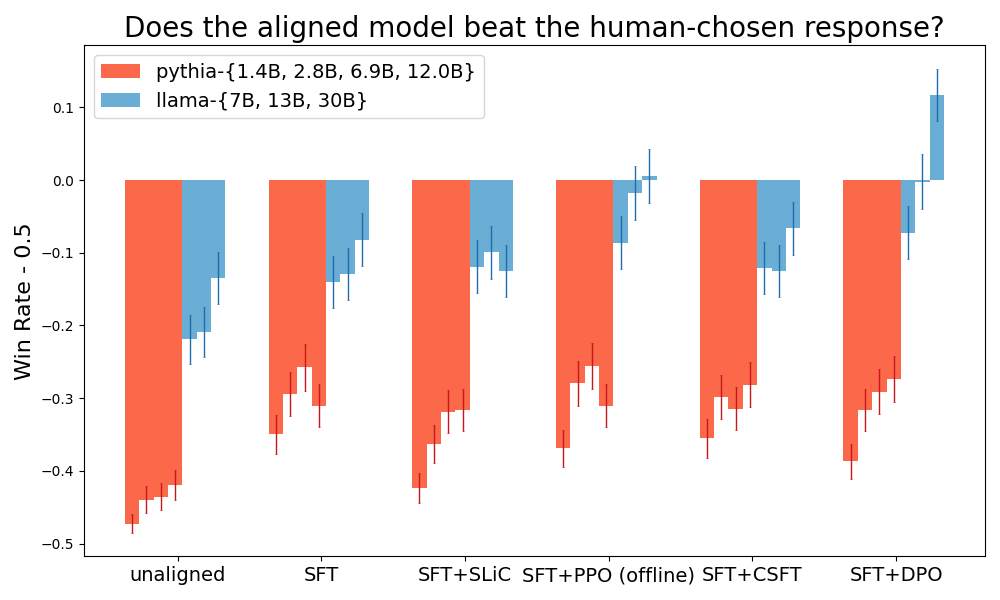
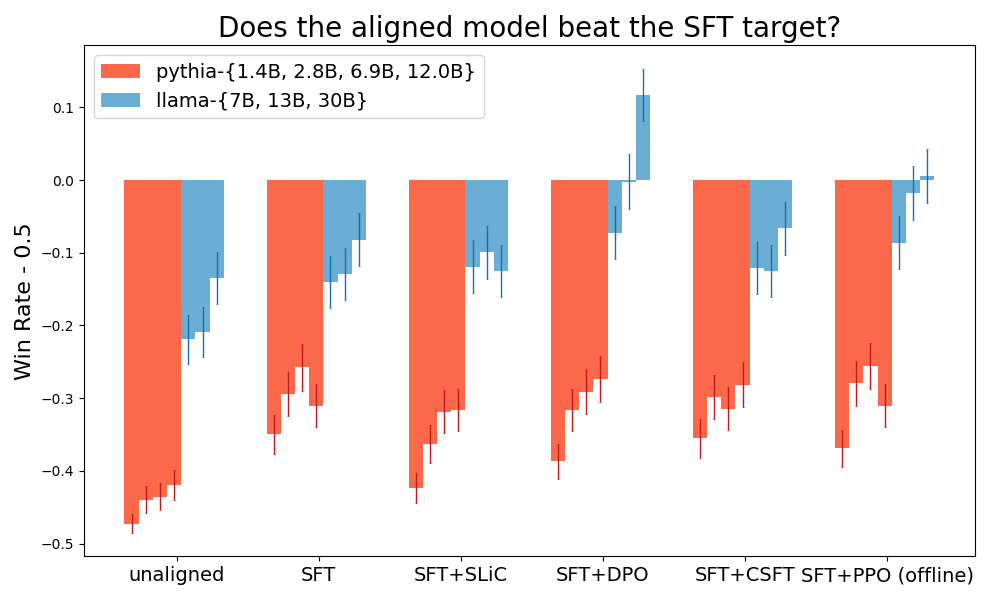
upate figure titles

diff --git a/visualize.py b/visualize.py
@@ -163,7 +163,7 @@ def plot_model_winrates(losses, fn, confidence=0.90):
 
     # Add labels and title
     plt.ylabel('Win Rate - 0.5', fontsize=16)
-    plt.title('Does the aligned model beat the human-chosen response?', fontsize=20)
+    plt.title('Does the aligned model beat the SFT target?', fontsize=20)
     plt.xticks([pos + bar_width / (len(MODELS) - 1) for pos in positions], [ LOSSES[l]['label'] for l in losses ], fontsize=14)
 
     ax.legend(handles=[Patch(facecolor=red_palette[3], label='pythia-{1.4B, 2.8B, 6.9B, 12.0B}'),
@@ -174,7 +174,7 @@ def plot_model_winrates(losses, fn, confidence=0.90):
     plt.savefig(f'figures/{fn}.png')
 
 
-def plot_data_win_curves(loss='kto', model='llama7b', confidence=0.75):
+def plot_data_win_curves(loss='kto', model='llama7b', confidence=0.90):
     results_fracdata = process_fracdata()
     results_archangel = process_archangel()
 
@@ -217,7 +217,7 @@ def plot_data_win_curves(loss='kto', model='llama7b', confidence=0.75):
    
     ax1.set_ylim([0.2, 0.5])
     ax2.set_ylim([0.2, 0.5])
-    fig.suptitle('Winrate (KTO-Aligned Llama7B vs. Human-Chosen Response)') 
+    fig.suptitle('Winrate (KTO-Aligned Llama7B vs. SFT Target)') 
     plt.tight_layout()
     # Adding legend
     plt.savefig(f'figures/fracdata.png')
